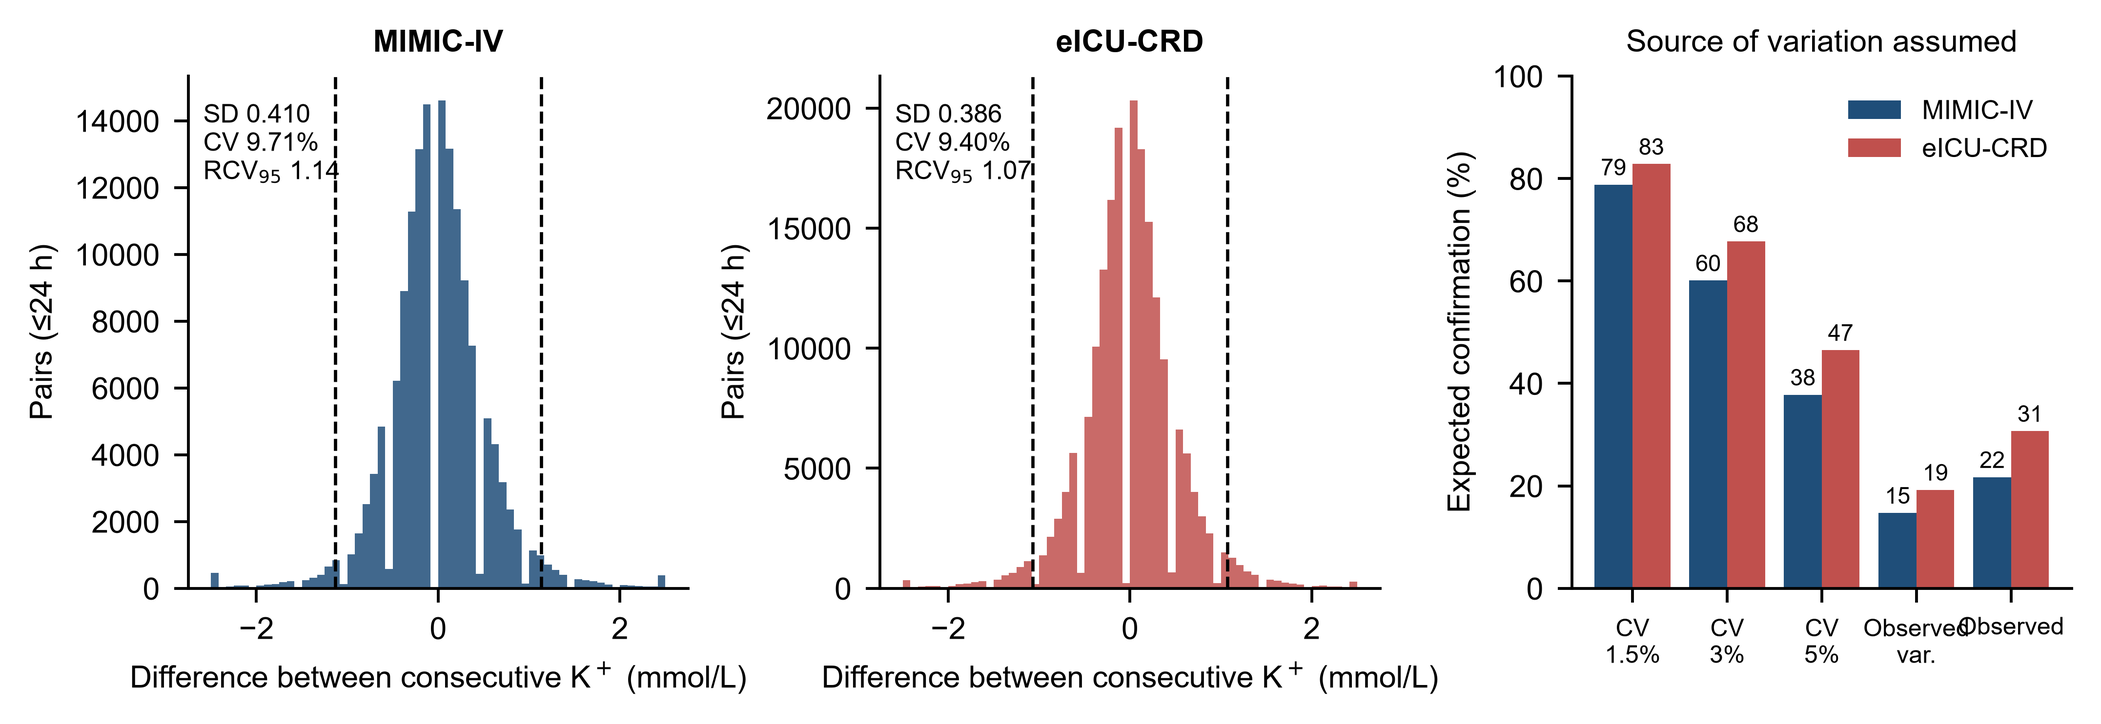
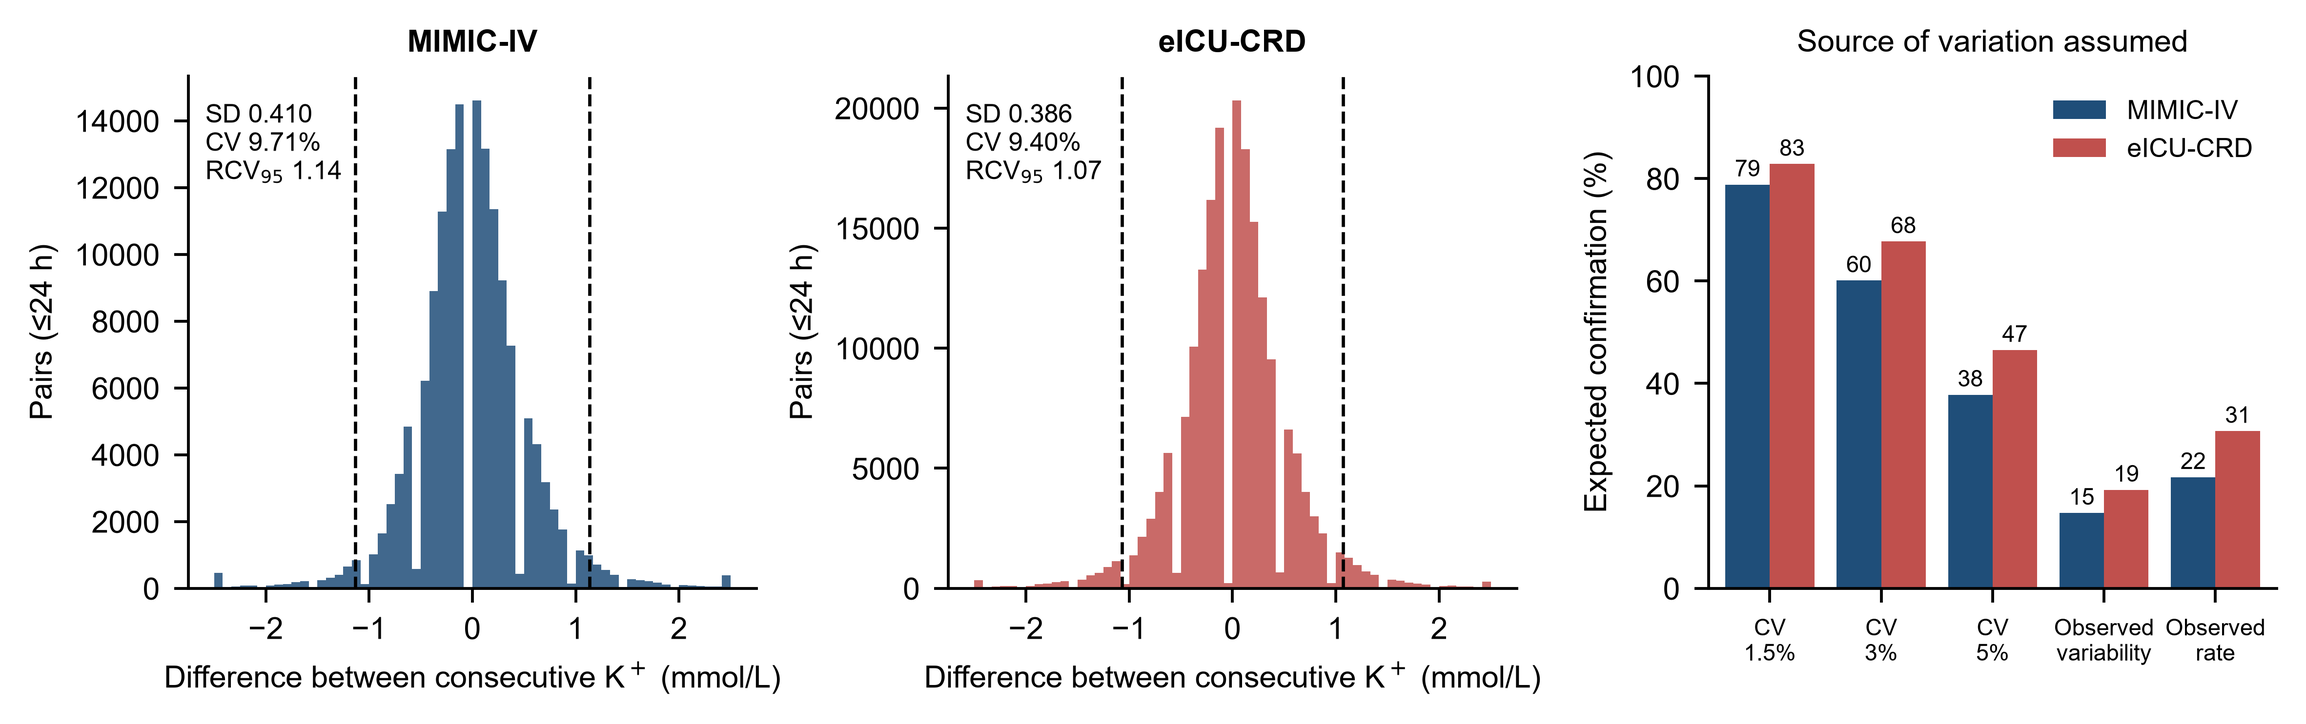
Fix Figure 3 caption and panel labels, rebuild Abbreviations from actual usage, restore abstract to 237 words, cite Table S9

diff --git a/code/k71_external_review_fixes.py b/code/k71_external_review_fixes.py
@@ -1,0 +1,127 @@
+# -*- coding: utf-8 -*-
+"""k71: corrections arising from the external (DeepSeek) review, applied only where the
+claim was confirmed against the docx/md source.
+
+Confirmed and fixed:
+  * Figure 3 caption did not describe the third panel (source of variation / expected
+    confirmation) -> caption rewritten for both languages;
+  * the Abbreviations list carried AUC, which never appears in the text, and omitted
+    abbreviations that are used (CCU, CV, CVICU, E-value, IQR, RR, SD) -> list rebuilt
+    from an actual scan of the body;
+  * the abstract is brought back up to about 230 words, restoring the transient-state
+    odds ratios, the cohort sizes and the analytical-error sentence (journal budget for
+    original research is ~250 words);
+  * the E-value sentence now points to Table S9.
+
+Not changed (claims refuted against the source; see the audit report):
+  * "Introduction duplicated on page 2" - no duplicated paragraph exists in the md or
+    the docx;
+  * "author block missing from the first page" - the title page carries all five
+    authors, three affiliations, correspondence, ORCIDs and e-mail addresses;
+  * supplementary numbering - Table S1-S9 all exist and match the in-text citations.
+"""
+import io, re, sys
+
+EN = 'out/manuscript_K3.md'
+CN = 'out/稿件_K3_中文版.md'
+fails = []
+
+EN_ABS = """**Background** Hyperkalaemia in cardiac intensive care is defined by one threshold, although guidelines advise a repeat sample. Whether such an episode persists, and whether persistence is prognostic, is unknown.
+
+**Methods** Among cardiac intensive care admissions with potassium records in the Medical Information Mart for Intensive Care IV (MIMIC-IV, 23,429) and the eICU Collaborative Research Database (eICU-CRD, 41,917), the 20,322 and 28,805 with a baseline potassium below 5.5 mmol/L and a measurement after 24 hours were classified by the next 24 hours after a first value ≥5.5 mmol/L as transient, intermittent, sustained or unclassified. We quantified within-patient variability, bounded the contribution of analytical error, and related each state to in-hospital death after a 72-hour landmark.
+
+**Results** Episodes occurred in 1,182 (5.82%) and 997 (3.46%) admissions; 86 (0.42%) and 100 (0.35%) were sustained. Analytical error alone predicted 38–83% confirmation, so the reversion reflects genuine fluctuation, not assay error, and recorded treatment did not explain it. Adjusted odds ratios for death were 11.87 (5.59–20.49) and 8.05 (4.16–15.15) for sustained episodes and 1.56 (0.99–2.45) and 2.77 (1.82–3.93) for transient episodes; the persistent state was significant in all sensitivity analyses, whereas the excess for transient episodes was not significant in MIMIC-IV. Only 52.0% and 42.0% were re-measured within six hours.
+
+**Conclusions** Most single-threshold episodes in cardiac intensive care do not persist, and the observed rates exclude an isolated assay error. Excess mortality is carried mainly by the persistent state, so the two should be reported separately."""
+
+CN_ABS = """**背景** 心脏重症监护中的高钾血症以单次阈值确定，尽管指南建议复查确认。这样一次事件有多常持续、持续是否携带预后信息，均不清楚。
+
+**方法** 在 MIMIC-IV（Medical Information Mart for Intensive Care IV，23,429 例）与 eICU 协作研究数据库（eICU-CRD，41,917 例）中有血钾记录的心脏重症监护住院里，基线血钾 <5.5 mmol/L 且在 24 小时后有测量的 20,322 与 28,805 例，依据首次 ≥5.5 mmol/L 之后 24 小时内的测量分为一过性、间歇、持续与未分类。我们量化患者内变异、界定分析误差的贡献，并把各状态与 72 小时 landmark 之后的院内死亡关联。
+
+**结果** 事件分别发生于 1,182 例（5.82%）与 997 例（3.46%）；86 例（0.42%）与 100 例（0.35%）为持续。若纯为分析误差，预期确认率应为 38–83%，故回落更符合真实波动而非测定误差，记录到的治疗亦不能解释。校正后死亡比值比在持续事件为 11.87（5.59–20.49）与 8.05（4.16–15.15），在一过性事件为 1.56（0.99–2.45）与 2.77（1.82–3.93）；持续状态在全部敏感性分析中均保持显著，而一过性事件的超额风险在 MIMIC-IV 中未达显著。仅 52.0% 与 42.0% 的事件在 6 小时内被复查。
+
+**结论** 心脏重症监护中以单次阈值定义的事件多数并不持续，观察到的比例已可排除单纯的测定误差。超额死亡主要由持续状态承载，因此两者应当分别报告。"""
+
+EN_ABB = """| Abbreviation | Definition |
+|---|---|
+| CCU | coronary care unit |
+| CI | confidence interval |
+| CV | coefficient of variation |
+| CVICU | cardiac vascular intensive care unit |
+| E-value | minimum strength of association that an unmeasured confounder would need in order to explain away an observed association |
+| eICU-CRD | eICU Collaborative Research Database |
+| IQR | interquartile range |
+| MIMIC-IV | Medical Information Mart for Intensive Care IV |
+| OR | odds ratio |
+| RCV | reference change value |
+| RR | risk ratio |
+| SD | standard deviation |
+| STROBE | Strengthening the Reporting of Observational Studies in Epidemiology |"""
+
+CN_ABB = """| 缩写 | 全称 |
+|---|---|
+| CCU | 冠心病监护病房 |
+| CI | 置信区间 |
+| CV | 变异系数 |
+| CVICU | 心血管重症监护病房 |
+| E 值 | 解释掉某一观察到的关联所需的最小未测混杂关联强度 |
+| eICU-CRD | eICU 协作研究数据库 |
+| IQR | 四分位距 |
+| MIMIC-IV | 重症监护医学信息库 IV |
+| OR | 比值比 |
+| RCV | 参考变化值 |
+| RR | 风险比 |
+| SD | 标准差 |
+| STROBE | 加强观察性流行病学研究报告声明 |"""
+
+en = io.open(EN, encoding='utf-8').read()
+cn = io.open(CN, encoding='utf-8').read()
+
+
+def swap(txt, old, new, tag):
+    n = txt.count(old)
+    if n != 1:
+        fails.append('%s: matched %d' % (tag, n)); return txt
+    return txt.replace(old, new, 1)
+
+
+def swap_re(txt, pat, new, tag):
+    n = len(re.findall(pat, txt))
+    if n != 1:
+        fails.append('%s: matched %d' % (tag, n)); return txt
+    return re.sub(pat, new.replace('\\', '\\\\'), txt, count=1)
+
+
+# ---- 1. abstract (restore ~30 words) --------------------------------------
+a = en.index('## Abstract') + len('## Abstract'); b = en.index('**Keywords**', a)
+old_core = re.sub(r'\*\*(Background|Methods|Results|Conclusions)\*\*', '', en[a:b]).split()
+en = en[:a] + '\n\n' + EN_ABS + '\n\n' + en[b:]
+a2 = cn.index('## 摘要') + len('## 摘要'); b2 = cn.index('**关键词**', a2)
+cn = cn[:a2] + '\n\n' + CN_ABS + '\n\n' + cn[b2:]
+new_core = len(re.sub(r'\*\*(Background|Methods|Results|Conclusions)\*\*', '', EN_ABS).split())
+print('abstract: %d -> %d words (core, labels excluded)' % (len(old_core), new_core))
+
+# ---- 2. Figure 3 captions -------------------------------------------------
+en = swap(en, "**Figure 3.** Within-patient variability and its consequences. Distribution of the difference between consecutive measurements within 24 hours, the 95% reference change value, and the proportion of index values exceeding the patient's own variability.",
+          "**Figure 3.** Within-patient variability and the explanations for reversion. The two left panels show the distribution of the difference between consecutive potassium measurements up to 24 hours apart, in MIMIC-IV and eICU-CRD; the dashed lines mark the 95% reference change value and the inset gives the within-patient standard deviation, its coefficient of variation and the reference change value. The right panel gives the expected confirmation rate under each assumed source of variation (analytical imprecision at a coefficient of variation of 1.5%, 3.0% and 5.0%, and the observed within-patient variability) beside the observed rate; the same quantities are tabulated in Table 4.",
+          'EN Fig3 caption')
+cn = swap(cn, "**图 3.** 患者内变异及其后果。24 小时内相邻测量差值分布、95% 参考变化值，以及索引值超过患者自身变异范围的比例。",
+          "**图 3.** 患者内变异与回落的可能解释。左侧两幅为 MIMIC-IV 与 eICU-CRD 中间隔 ≤24 小时的相邻血钾测量差值的分布；虚线为 95% 参考变化值，插图给出患者内标准差、变异系数与参考变化值。右侧一幅给出各假设变异来源下（分析不精密度 CV 1.5%、3.0%、5.0%，以及观察到的患者内变异）的预期确认率，并与实际观察到的确认率并列；同一批数值列于表 4。",
+          'CN 图3 caption')
+
+# ---- 3. abbreviations -----------------------------------------------------
+en = swap_re(en, r'\| Abbreviation \| Definition \|\n\|---\|---\|\n(\|[^\n]*\|\n)+', EN_ABB, 'EN abbreviations')
+cn = swap_re(cn, r'\| 缩写 \| 全称 \|\n\|---\|---\|\n(\|[^\n]*\|\n)+', CN_ABB, 'CN abbreviations')
+
+# ---- 4. Table S9 pointer -------------------------------------------------
+en = swap(en, 'the E-value for the persistent state was 15.5 and 10.6, meaning that',
+          'the E-value for the persistent state was 15.5 and 10.6 (Table S9), meaning that', 'EN Table S9')
+cn = swap(cn, '持续状态的 E 值为 **15.5 与 10.6**，即某一个未测混杂',
+          '持续状态的 E 值为 **15.5 与 10.6**（表 S9），即某一个未测混杂', 'CN 表 S9')
+
+if fails:
+    print('ABORT:'); [print('  -', f) for f in fails]; sys.exit(1)
+
+io.open(EN, 'w', encoding='utf-8').write(en)
+io.open(CN, 'w', encoding='utf-8').write(cn)
+print('done: abstract, Figure 3 caption, abbreviations, Table S9 pointer')

diff --git a/code/k70_fig3_fix.py b/code/k70_fig3_fix.py
@@ -1,0 +1,94 @@
+# -*- coding: utf-8 -*-
+"""k70: redraw Figure 3.
+
+Two defects fixed:
+  * the third panel's x tick labels ("Observed var." / "Observed") collided after the
+    export, so the panel width is increased;
+  * nothing else is changed, but every number drawn is asserted against Table 3
+    (within-patient SD, CV and RCV) and Table 4 (expected and observed confirmation),
+    so the figure cannot drift from the tables again.
+"""
+import io, json, sys
+import numpy as np, pandas as pd
+import matplotlib
+matplotlib.use('Agg')
+import matplotlib.pyplot as plt
+
+plt.rcParams.update({'font.family': 'Arial', 'font.size': 7.5, 'axes.linewidth': 0.7,
+                     'xtick.major.width': 0.7, 'ytick.major.width': 0.7,
+                     'axes.spines.top': False, 'axes.spines.right': False,
+                     'savefig.dpi': 600, 'figure.dpi': 600})
+OUT = 'out/figures_k3'
+BASE = 1440
+CM = '#1f4e79'; CE = '#c0504d'
+SER = {'MIMIC-IV': 'out/k3_k_series_mimic.pkl', 'eICU-CRD': 'out/k3_k_series_eicu.pkl'}
+ph2c = json.load(open('out/k3_phase2c.json', encoding='utf-8'))
+
+# anchors printed in the manuscript
+T3 = {'MIMIC-IV': dict(sd=0.410, cv=9.71, rcv=1.14), 'eICU-CRD': dict(sd=0.386, cv=9.40, rcv=1.07)}
+T4 = {'MIMIC-IV': dict(cv15=78.8, cv30=60.1, cv50=37.8, obsvar=14.7, obs=21.7),
+      'eICU-CRD': dict(cv15=82.8, cv30=67.7, cv50=46.5, obsvar=19.2, obs=30.7)}
+fails = []
+
+
+def ck(name, stated, got, tol=0.051):
+    ok = abs(stated - got) <= tol
+    print('  %-34s stated %-7s recomputed %-8s %s' % (name, stated, round(float(got), 4),
+                                                     'OK' if ok else '*** MISMATCH ***'))
+    if not ok:
+        fails.append(name)
+
+
+STAT = {}
+for nm, f in SER.items():
+    d = pd.read_pickle(f).sort_values(['sid', 't'])
+    dk = d.copy(); dk['dk'] = dk.groupby('sid').k.diff(); dk['dt'] = dk.groupby('sid').t.diff()
+    pr = dk[(dk.dt > 0) & (dk.dt <= BASE)]
+    sd = pr.dk.std() / np.sqrt(2)
+    cv = 100 * sd / d.k.mean()
+    rcv = 1.96 * np.sqrt(2) * sd
+    STAT[nm] = dict(pr=pr, sd=sd, cv=cv, rcv=rcv, mean=d.k.mean())
+    print('%s' % nm)
+    ck('%s SD' % nm, T3[nm]['sd'], sd, 0.0005)
+    ck('%s CV' % nm, T3[nm]['cv'], cv, 0.005)
+    ck('%s RCV95' % nm, T3[nm]['rcv'], rcv, 0.005)
+    sc = ph2c[nm]['scenarios']
+    ck('%s expected CV1.5%%' % nm, T4[nm]['cv15'], sc[0]['expected'], 0.05)
+    ck('%s expected CV3.0%%' % nm, T4[nm]['cv30'], sc[1]['expected'], 0.05)
+    ck('%s expected CV5.0%%' % nm, T4[nm]['cv50'], sc[2]['expected'], 0.05)
+    ck('%s expected observed-var' % nm, T4[nm]['obsvar'], sc[3]['expected'], 0.05)
+    ck('%s observed confirmation' % nm, T4[nm]['obs'], ph2c[nm]['obs_confirm'], 0.05)
+
+if fails:
+    print('\nABORT:', fails); sys.exit(1)
+
+fig, axes = plt.subplots(1, 3, figsize=(7.9, 2.5))
+for ax, nm in zip(axes[:2], SER):
+    st = STAT[nm]
+    ax.hist(st['pr'].dk.clip(-2.5, 2.5), bins=60, color=CM if nm == 'MIMIC-IV' else CE, alpha=0.85)
+    for v in (-1.96 * np.sqrt(2) * st['sd'], 1.96 * np.sqrt(2) * st['sd']):
+        ax.axvline(v, color='k', ls='--', lw=0.8)
+    ax.set_title(nm, fontsize=7.5, fontweight='bold')
+    ax.set_xlabel('Difference between consecutive K$^+$ (mmol/L)')
+    ax.set_ylabel('Pairs (≤24 h)')
+    ax.text(0.03, 0.95, 'SD %.3f\nCV %.2f%%\nRCV$_{95}$ %.2f' % (st['sd'], st['cv'], st['rcv']),
+            transform=ax.transAxes, va='top', fontsize=6.4)
+
+ax = axes[2]
+xs = np.arange(5)
+b1 = [ph2c['MIMIC-IV']['scenarios'][i]['expected'] for i in range(4)] + [ph2c['MIMIC-IV']['obs_confirm']]
+b2 = [ph2c['eICU-CRD']['scenarios'][i]['expected'] for i in range(4)] + [ph2c['eICU-CRD']['obs_confirm']]
+ax.bar(xs - 0.2, b1, 0.4, color=CM, label='MIMIC-IV')
+ax.bar(xs + 0.2, b2, 0.4, color=CE, label='eICU-CRD')
+for i, (a, b) in enumerate(zip(b1, b2)):
+    ax.text(i - 0.2, a + 1.6, '%.0f' % a, ha='center', fontsize=5.6)
+    ax.text(i + 0.2, b + 1.6, '%.0f' % b, ha='center', fontsize=5.6)
+ax.set_xticks(xs)
+ax.set_xticklabels(['CV\n1.5%', 'CV\n3%', 'CV\n5%', 'Observed\nvariability', 'Observed\nrate'],
+                   fontsize=5.7)
+ax.set_xlim(-0.55, 4.55)
+ax.set_ylabel('Expected confirmation (%)'); ax.set_ylim(0, 100)
+ax.set_title('Source of variation assumed', fontsize=7.5)
+ax.legend(frameon=False, fontsize=6.5)
+fig.tight_layout(); fig.savefig(OUT + '/FigK3_3_variability.png', bbox_inches='tight'); plt.close(fig)
+print('\n-> FigK3_3_variability.png redrawn (width 7.9 in, labels separated)')

diff --git a/manuscript_K3.md b/manuscript_K3.md
@@ -18,9 +18,9 @@ E-mail addresses: 15511075821@163.com (Q.M.); 1046649694@qq.com (J.C.); 18703137
 
 **Background** Hyperkalaemia in cardiac intensive care is defined by one threshold, although guidelines advise a repeat sample. Whether such an episode persists, and whether persistence is prognostic, is unknown.
 
-**Methods** Among cardiac intensive care admissions with potassium records in the Medical Information Mart for Intensive Care IV (MIMIC-IV) and the eICU Collaborative Research Database (eICU-CRD), the 20,322 and 28,805 with a baseline potassium below 5.5 mmol/L and a measurement after 24 hours were classified by the next 24 hours after a first value ≥5.5 mmol/L as transient, intermittent, sustained or unclassified, and related to in-hospital death after a 72-hour landmark.
+**Methods** Among cardiac intensive care admissions with potassium records in the Medical Information Mart for Intensive Care IV (MIMIC-IV, 23,429) and the eICU Collaborative Research Database (eICU-CRD, 41,917), the 20,322 and 28,805 with a baseline potassium below 5.5 mmol/L and a measurement after 24 hours were classified by the next 24 hours after a first value ≥5.5 mmol/L as transient, intermittent, sustained or unclassified. We quantified within-patient variability, bounded the contribution of analytical error, and related each state to in-hospital death after a 72-hour landmark.
 
-**Results** Episodes occurred in 1,182 (5.82%) and 997 (3.46%) admissions; 86 (0.42%) and 100 (0.35%) were sustained. Analytical error alone predicted 38–83% confirmation, so the observed reversion reflects genuine fluctuation, not assay error, and recorded treatment did not explain it. Adjusted odds ratios for death for sustained episodes were 11.87 (5.59–20.49) and 8.05 (4.16–15.15), significant in all sensitivity analyses; only 52.0% and 42.0% were re-measured within six hours.
+**Results** Episodes occurred in 1,182 (5.82%) and 997 (3.46%) admissions; 86 (0.42%) and 100 (0.35%) were sustained. Analytical error alone predicted 38–83% confirmation, so the reversion reflects genuine fluctuation, not assay error, and recorded treatment did not explain it. Adjusted odds ratios for death were 11.87 (5.59–20.49) and 8.05 (4.16–15.15) for sustained episodes and 1.56 (0.99–2.45) and 2.77 (1.82–3.93) for transient episodes; the persistent state was significant in all sensitivity analyses, whereas the excess for transient episodes was not significant in MIMIC-IV. Only 52.0% and 42.0% were re-measured within six hours.
 
 **Conclusions** Most single-threshold episodes in cardiac intensive care do not persist, and the observed rates exclude an isolated assay error. Excess mortality is carried mainly by the persistent state, so the two should be reported separately.
 
@@ -169,7 +169,7 @@ The coefficient of variation is the within-patient standard deviation divided by
 
 ![](figures_k3/FigK3_3_variability.png "6.5")
 
-**Figure 3.** Within-patient variability and its consequences. Distribution of the difference between consecutive measurements within 24 hours, the 95% reference change value, and the proportion of index values exceeding the patient's own variability.
+**Figure 3.** Within-patient variability and the explanations for reversion. The two left panels show the distribution of the difference between consecutive potassium measurements up to 24 hours apart, in MIMIC-IV and eICU-CRD; the dashed lines mark the 95% reference change value and the inset gives the within-patient standard deviation, its coefficient of variation and the reference change value. The right panel gives the expected confirmation rate under each assumed source of variation (analytical imprecision at a coefficient of variation of 1.5%, 3.0% and 5.0%, and the observed within-patient variability) beside the observed rate; the same quantities are tabulated in Table 4.
 
 Two consequences followed. First, the apparent rise is often small relative to that background: the index value exceeded the patient's own median by more than the reference change value in only 64.0% and 64.8% of episodes, and the increment from the preceding measurement was within the reference change value in 46.3% and 51.1%. Second, the transition matrix shows that an isolated reading carries limited information about the next one (Table 3, Figure 4): a potassium of 5.5–5.9 mmol/L was followed by a value ≥5.5 mmol/L in only 32.3% (MIMIC-IV) and 33.9% (eICU-CRD) of instances, compared with 10.0% and 10.7% for a reading of 5.0–5.4, and 1.8% and 1.9% for 4.5–4.9. The matrix agrees between databases at 5.5–5.9 and diverges only at ≥6.0 (39.0% versus 54.5%), the band in which management is most likely to differ between a single academic centre and a tele-ICU network.
 
@@ -277,7 +277,7 @@ The yield did not improve by restricting the rule to higher values. In eICU-CRD,
 
 **Measurement density.** The number of potassium measurements after hour 24 differed between the states, so the model was refitted within strata of measurement density. Restricting to admissions at or above the median density left the gradient intact (1.75 [1.04–2.70], 4.45 [2.39–7.18] and 8.98 [3.59–19.61] in MIMIC-IV; 2.56 [1.53–3.83], 3.90 [2.09–6.49] and 9.90 [3.53–18.69] in eICU-CRD), as did restriction to the top quartile (2.38 [1.35–3.96], 4.69 [2.54–8.07] and 9.07 [3.67–19.89]; 2.73 [1.49–4.03], 3.58 [1.84–6.26] and 10.92 [2.58–22.35]). The association is therefore not produced by patients who happened to be tested more often.
 
-**Dialysis, treatment strata and unmeasured confounding.** Renal replacement therapy was recorded for 6.2% and 4.3% of episodes; excluding those episodes left the gradient essentially unchanged (2.17 [1.62–2.88], 4.78 [3.04–6.93] and 14.48 [8.19–23.41] in MIMIC-IV; 3.07 [2.34–4.55], 3.82 [2.28–7.24] and 12.36 [7.71–26.10] in eICU-CRD). Reporting the two treatment strata separately gave the same ordering in both databases (untreated: 2.27 [1.60–3.43], 4.25 [2.32–6.81] and 12.45 [5.08–25.03] in MIMIC-IV; 3.03 [2.30–4.64], 4.05 [2.68–7.28] and 12.49 [8.00–23.90] in eICU-CRD; treated: 3.22 [2.04–6.10], 6.13 [3.30–12.87] and 15.20 [7.93–41.26] in MIMIC-IV). In eICU-CRD only 28 of the 485 episodes (5.8%) in the 72-hour landmark cohort had recorded treatment, and the stratum-specific estimates were correspondingly unstable (sustained 1.71, 95% CI 0.92–13.95; Table S7); they are reported for completeness and are not interpreted. Against a reference risk of 4.4% and 6.4%, the E-value for the persistent state was 15.5 and 10.6, meaning that an unmeasured confounder would have to be associated with both persistence and death by a risk ratio of that magnitude (larger than that of any covariate examined here) to explain the association away; the corresponding E-values were 7.1 and 6.8 for intermittent episodes and 2.4 and 4.4 for transient episodes.
+**Dialysis, treatment strata and unmeasured confounding.** Renal replacement therapy was recorded for 6.2% and 4.3% of episodes; excluding those episodes left the gradient essentially unchanged (2.17 [1.62–2.88], 4.78 [3.04–6.93] and 14.48 [8.19–23.41] in MIMIC-IV; 3.07 [2.34–4.55], 3.82 [2.28–7.24] and 12.36 [7.71–26.10] in eICU-CRD). Reporting the two treatment strata separately gave the same ordering in both databases (untreated: 2.27 [1.60–3.43], 4.25 [2.32–6.81] and 12.45 [5.08–25.03] in MIMIC-IV; 3.03 [2.30–4.64], 4.05 [2.68–7.28] and 12.49 [8.00–23.90] in eICU-CRD; treated: 3.22 [2.04–6.10], 6.13 [3.30–12.87] and 15.20 [7.93–41.26] in MIMIC-IV). In eICU-CRD only 28 of the 485 episodes (5.8%) in the 72-hour landmark cohort had recorded treatment, and the stratum-specific estimates were correspondingly unstable (sustained 1.71, 95% CI 0.92–13.95; Table S7); they are reported for completeness and are not interpreted. Against a reference risk of 4.4% and 6.4%, the E-value for the persistent state was 15.5 and 10.6 (Table S9), meaning that an unmeasured confounder would have to be associated with both persistence and death by a risk ratio of that magnitude (larger than that of any covariate examined here) to explain the association away; the corresponding E-values were 7.1 and 6.8 for intermittent episodes and 2.4 and 4.4 for transient episodes.
 
 **Clustered confidence intervals for the proportions.** In eICU-CRD, resampling hospitals rather than patients widened the intervals without changing any conclusion: incidence 3.46% (95% CI 3.0–3.9), re-measurement within six hours 42.0% (36.3–47.7), confirmation by the next measurement 23.5% (19.4–27.7) and the sustained share of apparent episodes 10.0% (8.4–11.8).
 
@@ -394,14 +394,19 @@ The following abbreviations are used in this manuscript:
 
 | Abbreviation | Definition |
 |---|---|
-| AUC | area under the receiver-operating-characteristic curve |
+| CCU | coronary care unit |
 | CI | confidence interval |
+| CV | coefficient of variation |
+| CVICU | cardiac vascular intensive care unit |
+| E-value | minimum strength of association that an unmeasured confounder would need in order to explain away an observed association |
 | eICU-CRD | eICU Collaborative Research Database |
+| IQR | interquartile range |
 | MIMIC-IV | Medical Information Mart for Intensive Care IV |
 | OR | odds ratio |
 | RCV | reference change value |
+| RR | risk ratio |
+| SD | standard deviation |
 | STROBE | Strengthening the Reporting of Observational Studies in Epidemiology |
-
 ---
 
 ## References
